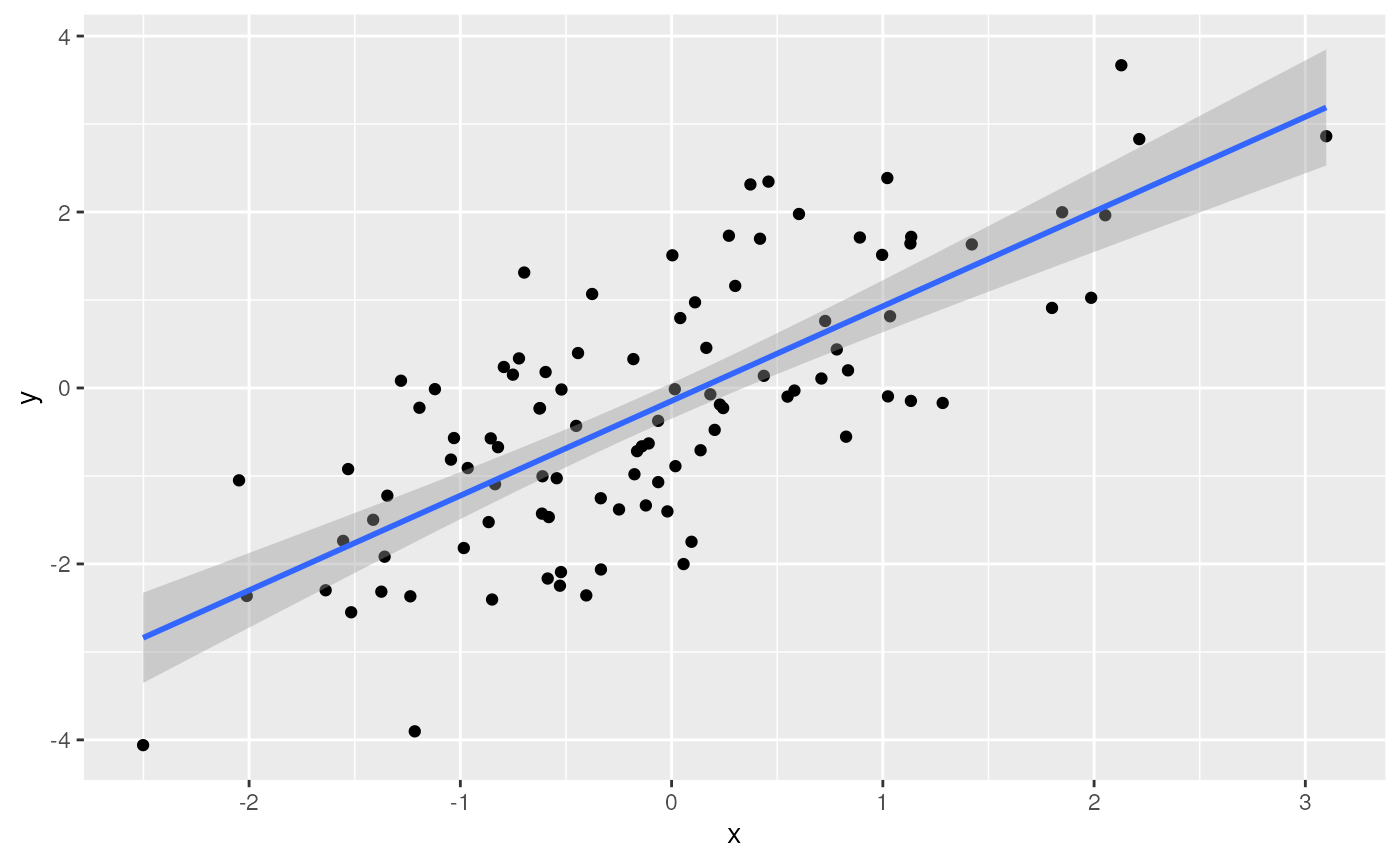
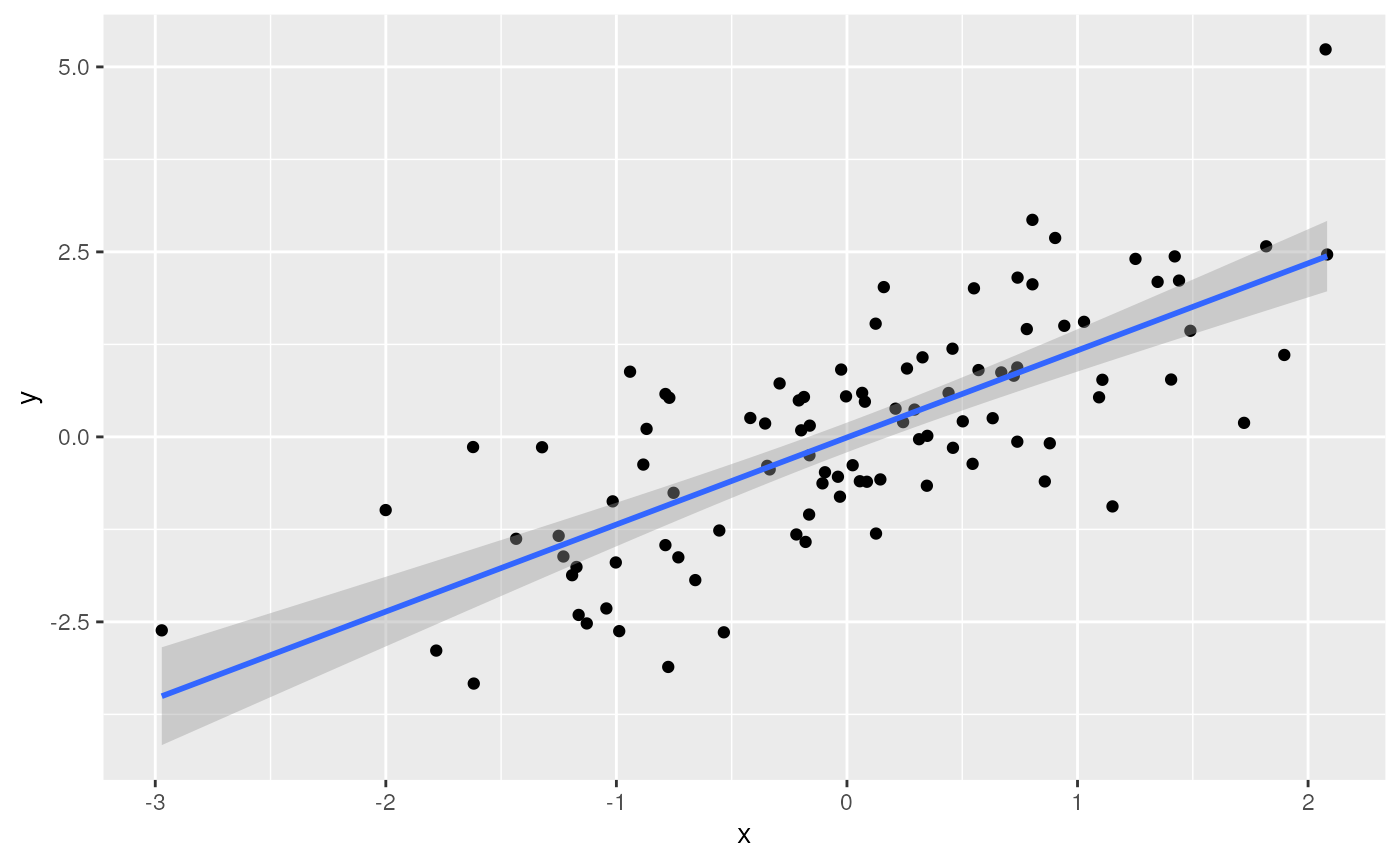
Deploying to gh-pages from @ mtmorgan/ArtNET2023@8ffec13955b0c99a74b7439393b391f1b6cc4643 🚀

diff --git a/articles/a_r.html b/articles/a_r.html
@@ -169,7 +169,7 @@ columns</li>
 <p>Functions</p>
 <div class="sourceCode" id="cb5"><pre class="downlit sourceCode r">
 <code class="sourceCode R"><span><span class="fu"><a href="https://rdrr.io/r/stats/Normal.html" class="external-link">rnorm</a></span><span class="op">(</span><span class="fl">5</span><span class="op">)</span>        <span class="co"># 5 random normal deviates</span></span>
-<span><span class="co">#&gt; [1]  0.7792484 -1.1957363  0.9642960 -0.8947239 -0.1341458</span></span>
+<span><span class="co">#&gt; [1] -0.24467398  0.03088212 -0.02108385 -0.30971223 -1.43242561</span></span>
 <span><span class="va">x</span> <span class="op">&lt;-</span> <span class="fu"><a href="https://rdrr.io/r/stats/Normal.html" class="external-link">rnorm</a></span><span class="op">(</span><span class="fl">100</span><span class="op">)</span> <span class="co"># 100 random normal deviates</span></span>
 <span><span class="fu"><a href="https://rdrr.io/r/graphics/hist.html" class="external-link">hist</a></span><span class="op">(</span><span class="va">x</span><span class="op">)</span>         <span class="co"># histogram, approximately normal</span></span></code></pre></div>
 <p><img src="a_r_files/figure-html/unnamed-chunk-6-1.png" width="700"></p>
@@ -189,7 +189,7 @@ explicit ‘for’ loop</p>
 <span><span class="co">#&gt; </span></span>
 <span><span class="co">#&gt; Coefficients:</span></span>
 <span><span class="co">#&gt; (Intercept)            x  </span></span>
-<span><span class="co">#&gt;     0.05219      1.11691</span></span>
+<span><span class="co">#&gt;    0.001288     1.166785</span></span>
 <span>            <span class="co"># regression of y on x</span></span>
 <span><span class="fu"><a href="https://rdrr.io/r/graphics/abline.html" class="external-link">abline</a></span><span class="op">(</span><span class="va">fit</span><span class="op">)</span> <span class="co"># plot points and fitted regression line</span></span></code></pre></div>
 <p><img src="a_r_files/figure-html/unnamed-chunk-7-1.png" width="700"></p>
@@ -199,8 +199,8 @@ explicit ‘for’ loop</p>
 <span><span class="co">#&gt; </span></span>
 <span><span class="co">#&gt; Response: y</span></span>
 <span><span class="co">#&gt;           Df Sum Sq Mean Sq F value    Pr(&gt;F)    </span></span>
-<span><span class="co">#&gt; x          1 133.11 133.106  115.62 &lt; 2.2e-16 ***</span></span>
-<span><span class="co">#&gt; Residuals 98 112.82   1.151                      </span></span>
+<span><span class="co">#&gt; x          1 146.80 146.797  147.38 &lt; 2.2e-16 ***</span></span>
+<span><span class="co">#&gt; Residuals 98  97.61   0.996                      </span></span>
 <span><span class="co">#&gt; ---</span></span>
 <span><span class="co">#&gt; Signif. codes:  0 '***' 0.001 '**' 0.01 '*' 0.05 '.' 0.1 ' ' 1</span></span></code></pre></div>
 <p>Write your own functions</p>
@@ -248,18 +248,18 @@ CRAN package, load the package</p>
 <span></span>
 <span><span class="va">tbl</span> <span class="co"># e.g., only displays the first 10 rows</span></span>
 <span><span class="co">#&gt; <span style="color: #949494;"># A tibble: 100 × 2</span></span></span>
-<span><span class="co">#&gt;          x      y</span></span>
-<span><span class="co">#&gt;      <span style="color: #949494; font-style: italic;">&lt;dbl&gt;</span>  <span style="color: #949494; font-style: italic;">&lt;dbl&gt;</span></span></span>
-<span><span class="co">#&gt; <span style="color: #BCBCBC;"> 1</span>  0.889   0.651</span></span>
-<span><span class="co">#&gt; <span style="color: #BCBCBC;"> 2</span> -<span style="color: #BB0000;">0.075</span><span style="color: #BB0000; text-decoration: underline;">3</span>  0.162</span></span>
-<span><span class="co">#&gt; <span style="color: #BCBCBC;"> 3</span>  1.50    0.272</span></span>
-<span><span class="co">#&gt; <span style="color: #BCBCBC;"> 4</span>  1.62    1.03 </span></span>
-<span><span class="co">#&gt; <span style="color: #BCBCBC;"> 5</span> -<span style="color: #BB0000;">0.529</span>  -<span style="color: #BB0000;">0.497</span></span></span>
-<span><span class="co">#&gt; <span style="color: #BCBCBC;"> 6</span> -<span style="color: #BB0000;">0.072</span><span style="color: #BB0000; text-decoration: underline;">2</span> -<span style="color: #BB0000;">0.849</span></span></span>
-<span><span class="co">#&gt; <span style="color: #BCBCBC;"> 7</span> -<span style="color: #BB0000;">1.52</span>   -<span style="color: #BB0000;">0.599</span></span></span>
-<span><span class="co">#&gt; <span style="color: #BCBCBC;"> 8</span>  0.332  -<span style="color: #BB0000;">0.438</span></span></span>
-<span><span class="co">#&gt; <span style="color: #BCBCBC;"> 9</span> -<span style="color: #BB0000;">1.97</span>   -<span style="color: #BB0000;">1.09</span> </span></span>
-<span><span class="co">#&gt; <span style="color: #BCBCBC;">10</span>  0.401   0.315</span></span>
+<span><span class="co">#&gt;         x      y</span></span>
+<span><span class="co">#&gt;     <span style="color: #949494; font-style: italic;">&lt;dbl&gt;</span>  <span style="color: #949494; font-style: italic;">&lt;dbl&gt;</span></span></span>
+<span><span class="co">#&gt; <span style="color: #BCBCBC;"> 1</span>  0.939  0.761</span></span>
+<span><span class="co">#&gt; <span style="color: #BCBCBC;"> 2</span> -<span style="color: #BB0000;">1.04</span>  -<span style="color: #BB0000;">0.178</span></span></span>
+<span><span class="co">#&gt; <span style="color: #BCBCBC;"> 3</span> -<span style="color: #BB0000;">1.09</span>   0.895</span></span>
+<span><span class="co">#&gt; <span style="color: #BCBCBC;"> 4</span> -<span style="color: #BB0000;">0.690</span> -<span style="color: #BB0000;">1.28</span> </span></span>
+<span><span class="co">#&gt; <span style="color: #BCBCBC;"> 5</span>  0.721 -<span style="color: #BB0000;">0.197</span></span></span>
+<span><span class="co">#&gt; <span style="color: #BCBCBC;"> 6</span> -<span style="color: #BB0000;">0.480</span> -<span style="color: #BB0000;">2.08</span> </span></span>
+<span><span class="co">#&gt; <span style="color: #BCBCBC;"> 7</span>  0.797  1.53 </span></span>
+<span><span class="co">#&gt; <span style="color: #BCBCBC;"> 8</span> -<span style="color: #BB0000;">0.322</span> -<span style="color: #BB0000;">0.389</span></span></span>
+<span><span class="co">#&gt; <span style="color: #BCBCBC;"> 9</span>  0.801 -<span style="color: #BB0000;">0.759</span></span></span>
+<span><span class="co">#&gt; <span style="color: #BCBCBC;">10</span> -<span style="color: #BB0000;">0.204</span> -<span style="color: #BB0000;">1.18</span> </span></span>
 <span><span class="co">#&gt; <span style="color: #949494;"># ℹ 90 more rows</span></span></span></code></pre></div>
 <p>The tidyverse makes use of ‘pipes’ <code>|&gt;</code> (the older
 syntax is <code>%&gt;%</code>). A pipe takes the left-hand side and pass
@@ -309,20 +309,20 @@ tibble.</li>
 <span>    <span class="fu"><a href="https://dplyr.tidyverse.org/reference/filter.html" class="external-link">filter</a></span><span class="op">(</span><span class="va">x</span> <span class="op">&gt;</span> <span class="fl">0</span>, <span class="va">y</span> <span class="op">&gt;</span> <span class="fl">0</span><span class="op">)</span> <span class="op">|&gt;</span></span>
 <span>    <span class="co">## add a column</span></span>
 <span>    <span class="fu"><a href="https://dplyr.tidyverse.org/reference/mutate.html" class="external-link">mutate</a></span><span class="op">(</span>distance_from_origin <span class="op">=</span> <span class="fu"><a href="https://rdrr.io/r/base/MathFun.html" class="external-link">sqrt</a></span><span class="op">(</span><span class="va">x</span><span class="op">^</span><span class="fl">2</span> <span class="op">+</span> <span class="va">y</span><span class="op">^</span><span class="fl">2</span><span class="op">)</span><span class="op">)</span></span>
-<span><span class="co">#&gt; <span style="color: #949494;"># A tibble: 44 × 3</span></span></span>
-<span><span class="co">#&gt;         x       y distance_from_origin</span></span>
-<span><span class="co">#&gt;     <span style="color: #949494; font-style: italic;">&lt;dbl&gt;</span>   <span style="color: #949494; font-style: italic;">&lt;dbl&gt;</span>                <span style="color: #949494; font-style: italic;">&lt;dbl&gt;</span></span></span>
-<span><span class="co">#&gt; <span style="color: #BCBCBC;"> 1</span> 0.889  0.651                  1.10 </span></span>
-<span><span class="co">#&gt; <span style="color: #BCBCBC;"> 2</span> 1.50   0.272                  1.52 </span></span>
-<span><span class="co">#&gt; <span style="color: #BCBCBC;"> 3</span> 1.62   1.03                   1.92 </span></span>
-<span><span class="co">#&gt; <span style="color: #BCBCBC;"> 4</span> 0.401  0.315                  0.510</span></span>
-<span><span class="co">#&gt; <span style="color: #BCBCBC;"> 5</span> 1.11   0.719                  1.32 </span></span>
-<span><span class="co">#&gt; <span style="color: #BCBCBC;"> 6</span> 0.054<span style="text-decoration: underline;">2</span> 0.101                  0.115</span></span>
-<span><span class="co">#&gt; <span style="color: #BCBCBC;"> 7</span> 0.402  0.150                  0.429</span></span>
-<span><span class="co">#&gt; <span style="color: #BCBCBC;"> 8</span> 0.614  0.560                  0.831</span></span>
-<span><span class="co">#&gt; <span style="color: #BCBCBC;"> 9</span> 0.246  1.31                   1.33 </span></span>
-<span><span class="co">#&gt; <span style="color: #BCBCBC;">10</span> 0.738  0.001<span style="text-decoration: underline;">36</span>                0.738</span></span>
-<span><span class="co">#&gt; <span style="color: #949494;"># ℹ 34 more rows</span></span></span></code></pre></div>
+<span><span class="co">#&gt; <span style="color: #949494;"># A tibble: 35 × 3</span></span></span>
+<span><span class="co">#&gt;        x     y distance_from_origin</span></span>
+<span><span class="co">#&gt;    <span style="color: #949494; font-style: italic;">&lt;dbl&gt;</span> <span style="color: #949494; font-style: italic;">&lt;dbl&gt;</span>                <span style="color: #949494; font-style: italic;">&lt;dbl&gt;</span></span></span>
+<span><span class="co">#&gt; <span style="color: #BCBCBC;"> 1</span> 0.939 0.761                1.21 </span></span>
+<span><span class="co">#&gt; <span style="color: #BCBCBC;"> 2</span> 0.797 1.53                 1.72 </span></span>
+<span><span class="co">#&gt; <span style="color: #BCBCBC;"> 3</span> 1.57  1.67                 2.29 </span></span>
+<span><span class="co">#&gt; <span style="color: #BCBCBC;"> 4</span> 0.746 0.264                0.791</span></span>
+<span><span class="co">#&gt; <span style="color: #BCBCBC;"> 5</span> 0.769 0.469                0.901</span></span>
+<span><span class="co">#&gt; <span style="color: #BCBCBC;"> 6</span> 0.164 1.30                 1.31 </span></span>
+<span><span class="co">#&gt; <span style="color: #BCBCBC;"> 7</span> 1.68  0.789                1.86 </span></span>
+<span><span class="co">#&gt; <span style="color: #BCBCBC;"> 8</span> 0.388 0.815                0.903</span></span>
+<span><span class="co">#&gt; <span style="color: #BCBCBC;"> 9</span> 0.266 1.27                 1.30 </span></span>
+<span><span class="co">#&gt; <span style="color: #BCBCBC;">10</span> 0.897 0.994                1.34 </span></span>
+<span><span class="co">#&gt; <span style="color: #949494;"># ℹ 25 more rows</span></span></span></code></pre></div>
 <p>A ‘classic’ built-in data set – Motor Trend ‘cars’ from 1974…
 ‘tidyverse’ eschews rownames, so make these a column. Use
 <code><a href="https://dplyr.tidyverse.org/reference/group_by.html" class="external-link">group_by()</a></code> to summarize by group (<code>cyl</code>).
@@ -391,8 +391,8 @@ points, or dragging to subset and zoom in)</p>
 <span>    <span class="fu"><a href="https://ggplot2.tidyverse.org/reference/geom_jitter.html" class="external-link">geom_jitter</a></span><span class="op">(</span>width <span class="op">=</span> <span class="fl">.25</span><span class="op">)</span> <span class="op">+</span></span>
 <span>    <span class="fu"><a href="https://ggplot2.tidyverse.org/reference/geom_boxplot.html" class="external-link">geom_boxplot</a></span><span class="op">(</span><span class="op">)</span></span>
 <span><span class="fu"><a href="https://rdrr.io/pkg/plotly/man/ggplotly.html" class="external-link">ggplotly</a></span><span class="op">(</span><span class="va">plt</span><span class="op">)</span></span></code></pre></div>
-<div class="plotly html-widget html-fill-item-overflow-hidden html-fill-item" id="htmlwidget-2898f552883a4b629c9b" style="width:700px;height:432.632880098888px;"></div>
-<script type="application/json" data-for="htmlwidget-2898f552883a4b629c9b">{"x":{"data":[{"x":[2.1956576404627413,1.9929327133577317,1.1514438561862335,1.8219834284391254,2.9138818189967424,2.206207231618464,2.9864502527052537,1.1731468822108582,0.84032799967098981,2.217991930898279,2.0204147193580866,2.8037744362372905,3.0633531112689525,3.0492010718444362,2.7737104370025918,2.9007849445333704,2.7504243809962645,1.1592051804764196,0.76005472103133798,1.1159701409051195,0.84394322731532156,3.2011064034886658,3.2128942363196984,3.1110571364406496,3.1182123750913888,0.78171508607920259,0.9589352619368583,1.0806569763226435,3.0430895240278915,1.9913993151858449,3.0965280308155343,1.0430394960567355],"y":[20.965565768722445,21.010963339097799,22.789397772755475,21.43058168986812,18.675006215125322,18.116619348581882,14.310995879042894,24.408481944985688,22.820941530540587,19.184151478186248,17.822997998353095,16.43397197170183,17.319669128265232,15.237512325644493,10.375736472271383,10.405228023231031,14.707303703278303,32.386314087100324,30.393548131026325,33.933059390056876,21.518943706024437,15.524511504285037,15.187964557297526,13.267972156163305,19.216416709329934,27.267468387726694,26.038153050653637,30.378151813764124,15.803299615420402,19.692310423552989,15.006791803725063,21.43605909684673],"text":["cyl: 6<br />mpg: 21.0<br />Mazda RX4","cyl: 6<br />mpg: 21.0<br />Mazda RX4 Wag","cyl: 4<br />mpg: 22.8<br />Datsun 710","cyl: 6<br />mpg: 21.4<br />Hornet 4 Drive","cyl: 8<br />mpg: 18.7<br />Hornet Sportabout","cyl: 6<br />mpg: 18.1<br />Valiant","cyl: 8<br />mpg: 14.3<br />Duster 360","cyl: 4<br />mpg: 24.4<br />Merc 240D","cyl: 4<br />mpg: 22.8<br />Merc 230","cyl: 6<br />mpg: 19.2<br />Merc 280","cyl: 6<br />mpg: 17.8<br />Merc 280C","cyl: 8<br />mpg: 16.4<br />Merc 450SE","cyl: 8<br />mpg: 17.3<br />Merc 450SL","cyl: 8<br />mpg: 15.2<br />Merc 450SLC","cyl: 8<br />mpg: 10.4<br />Cadillac Fleetwood","cyl: 8<br />mpg: 10.4<br />Lincoln Continental","cyl: 8<br />mpg: 14.7<br />Chrysler Imperial","cyl: 4<br />mpg: 32.4<br />Fiat 128","cyl: 4<br />mpg: 30.4<br />Honda Civic","cyl: 4<br />mpg: 33.9<br />Toyota Corolla","cyl: 4<br />mpg: 21.5<br />Toyota Corona","cyl: 8<br />mpg: 15.5<br />Dodge Challenger","cyl: 8<br />mpg: 15.2<br />AMC Javelin","cyl: 8<br />mpg: 13.3<br />Camaro Z28","cyl: 8<br />mpg: 19.2<br />Pontiac Firebird","cyl: 4<br />mpg: 27.3<br />Fiat X1-9","cyl: 4<br />mpg: 26.0<br />Porsche 914-2","cyl: 4<br />mpg: 30.4<br />Lotus Europa","cyl: 8<br />mpg: 15.8<br />Ford Pantera L","cyl: 6<br />mpg: 19.7<br />Ferrari Dino","cyl: 8<br />mpg: 15.0<br />Maserati Bora","cyl: 4<br />mpg: 21.4<br />Volvo 142E"],"type":"scatter","mode":"markers","marker":{"autocolorscale":false,"color":"rgba(0,0,0,1)","opacity":1,"size":5.6692913385826778,"symbol":"circle","line":{"width":1.8897637795275593,"color":"rgba(0,0,0,1)"}},"hoveron":"points","showlegend":false,"xaxis":"x","yaxis":"y","hoverinfo":"text","frame":null},{"x":[2,2,1,2,3,2,3,1,1,2,2,3,3,3,3,3,3,1,1,1,1,3,3,3,3,1,1,1,3,2,3,1],"y":[21,21,22.800000000000001,21.399999999999999,18.699999999999999,18.100000000000001,14.300000000000001,24.399999999999999,22.800000000000001,19.199999999999999,17.800000000000001,16.399999999999999,17.300000000000001,15.199999999999999,10.4,10.4,14.699999999999999,32.399999999999999,30.399999999999999,33.899999999999999,21.5,15.5,15.199999999999999,13.300000000000001,19.199999999999999,27.300000000000001,26,30.399999999999999,15.800000000000001,19.699999999999999,15,21.399999999999999],"hoverinfo":"y","type":"box","fillcolor":"rgba(255,255,255,1)","marker":{"opacity":null,"outliercolor":"rgba(0,0,0,1)","line":{"width":1.8897637795275593,"color":"rgba(0,0,0,1)"},"size":5.6692913385826778},"line":{"color":"rgba(51,51,51,1)","width":1.8897637795275593},"showlegend":false,"xaxis":"x","yaxis":"y","frame":null}],"layout":{"margin":{"t":27.824636418824401,"r":7.3059360730593621,"b":41.778974318367787,"l":37.260273972602747},"plot_bgcolor":"rgba(235,235,235,1)","paper_bgcolor":"rgba(255,255,255,1)","font":{"color":"rgba(0,0,0,1)","family":"","size":14.611872146118724},"xaxis":{"domain":[0,1],"automargin":true,"type":"linear","autorange":false,"range":[0.40000000000000002,3.6000000000000001],"tickmode":"array","ticktext":["4","6","8"],"tickvals":[1,2,3],"categoryorder":"array","categoryarray":["4","6","8"],"nticks":null,"ticks":"outside","tickcolor":"rgba(51,51,51,1)","ticklen":3.6529680365296811,"tickwidth":0.66417600664176002,"showticklabels":true,"tickfont":{"color":"rgba(77,77,77,1)","family":"","size":11.68949771689498},"tickangle":-0,"showline":false,"linecolor":null,"linewidth":0,"showgrid":true,"gridcolor":"rgba(255,255,255,1)","gridwidth":0.66417600664176002,"zeroline":false,"anchor":"y","title":{"text":"cyl","font":{"color":"rgba(0,0,0,1)","family":"","size":14.611872146118724}},"hoverformat":".2f"},"yaxis":{"domain":[0,1],"automargin":true,"type":"linear","autorange":false,"range":[9.1978703263821089,35.110925535946151],"tickmode":"array","ticktext":["10","15","20","25","30","35"],"tickvals":[10,15,20,25,30,35],"categoryorder":"array","categoryarray":["10","15","20","25","30","35"],"nticks":null,"ticks":"outside","tickcolor":"rgba(51,51,51,1)","ticklen":3.6529680365296811,"tickwidth":0.66417600664176002,"showticklabels":true,"tickfont":{"color":"rgba(77,77,77,1)","family":"","size":11.68949771689498},"tickangle":-0,"showline":false,"linecolor":null,"linewidth":0,"showgrid":true,"gridcolor":"rgba(255,255,255,1)","gridwidth":0.66417600664176002,"zeroline":false,"anchor":"x","title":{"text":"mpg","font":{"color":"rgba(0,0,0,1)","family":"","size":14.611872146118724}},"hoverformat":".2f"},"shapes":[{"type":"rect","fillcolor":null,"line":{"color":null,"width":0,"linetype":[]},"yref":"paper","xref":"paper","x0":0,"x1":1,"y0":0,"y1":1}],"showlegend":false,"legend":{"bgcolor":"rgba(255,255,255,1)","bordercolor":"transparent","borderwidth":1.8897637795275593,"font":{"color":"rgba(0,0,0,1)","family":"","size":11.68949771689498}},"hovermode":"closest","barmode":"relative"},"config":{"doubleClick":"reset","modeBarButtonsToAdd":["hoverclosest","hovercompare"],"showSendToCloud":false},"source":"A","attrs":{"7104091c482":{"x":{},"y":{},"text":{},"type":"scatter"},"71016dff523":{"x":{},"y":{},"text":{}}},"cur_data":"7104091c482","visdat":{"7104091c482":["function (y) ","x"],"71016dff523":["function (y) ","x"]},"highlight":{"on":"plotly_click","persistent":false,"dynamic":false,"selectize":false,"opacityDim":0.20000000000000001,"selected":{"opacity":1},"debounce":0},"shinyEvents":["plotly_hover","plotly_click","plotly_selected","plotly_relayout","plotly_brushed","plotly_brushing","plotly_clickannotation","plotly_doubleclick","plotly_deselect","plotly_afterplot","plotly_sunburstclick"],"base_url":"https://plot.ly"},"evals":[],"jsHooks":[]}</script>
+<div class="plotly html-widget html-fill-item-overflow-hidden html-fill-item" id="htmlwidget-35dadba49d92512a8153" style="width:700px;height:432.632880098888px;"></div>
+<script type="application/json" data-for="htmlwidget-35dadba49d92512a8153">{"x":{"data":[{"x":[2.138037059805356,2.0511229396797717,0.76048473443370312,1.9067124669672921,2.9393866645405069,1.7643262102501467,2.9583467253251001,1.1736917353700846,1.23622616159264,1.8727559162070975,1.922439930960536,3.2110200126189739,2.9359124900074676,3.1851566577097401,3.2386665748199448,3.1411115328082815,3.2171116487588733,1.1635948737384751,0.96984548296313733,1.1534362417878583,0.97617716633249074,3.00233421579469,2.8491531212348491,3.1327720943372697,3.2396950273541734,1.0949499655980617,1.1773146712221205,0.93199932889547199,2.9618355331476778,1.7803342157276347,3.0893412146251649,0.76072247582487762],"y":[21.024647741224616,21.021948779597878,22.763922350332141,21.398783827703443,18.726425807941705,18.10155126590282,14.303612651806326,24.439277203623206,22.77487199559808,19.223508803602307,17.774844039846212,16.390003186762332,17.310036185514182,15.184881491307168,10.416743359100074,10.361961787100881,14.663864192813634,32.38514803543687,30.387494206596163,33.884331886265429,21.536675003003328,15.483248222712428,15.208339595589786,13.292419253140688,19.186580522060392,27.326191682424398,26.008318181578069,30.36593226548284,15.825641874801368,19.701992471497505,15.018253629207612,21.387018956821411],"text":["cyl: 6<br />mpg: 21.0<br />Mazda RX4","cyl: 6<br />mpg: 21.0<br />Mazda RX4 Wag","cyl: 4<br />mpg: 22.8<br />Datsun 710","cyl: 6<br />mpg: 21.4<br />Hornet 4 Drive","cyl: 8<br />mpg: 18.7<br />Hornet Sportabout","cyl: 6<br />mpg: 18.1<br />Valiant","cyl: 8<br />mpg: 14.3<br />Duster 360","cyl: 4<br />mpg: 24.4<br />Merc 240D","cyl: 4<br />mpg: 22.8<br />Merc 230","cyl: 6<br />mpg: 19.2<br />Merc 280","cyl: 6<br />mpg: 17.8<br />Merc 280C","cyl: 8<br />mpg: 16.4<br />Merc 450SE","cyl: 8<br />mpg: 17.3<br />Merc 450SL","cyl: 8<br />mpg: 15.2<br />Merc 450SLC","cyl: 8<br />mpg: 10.4<br />Cadillac Fleetwood","cyl: 8<br />mpg: 10.4<br />Lincoln Continental","cyl: 8<br />mpg: 14.7<br />Chrysler Imperial","cyl: 4<br />mpg: 32.4<br />Fiat 128","cyl: 4<br />mpg: 30.4<br />Honda Civic","cyl: 4<br />mpg: 33.9<br />Toyota Corolla","cyl: 4<br />mpg: 21.5<br />Toyota Corona","cyl: 8<br />mpg: 15.5<br />Dodge Challenger","cyl: 8<br />mpg: 15.2<br />AMC Javelin","cyl: 8<br />mpg: 13.3<br />Camaro Z28","cyl: 8<br />mpg: 19.2<br />Pontiac Firebird","cyl: 4<br />mpg: 27.3<br />Fiat X1-9","cyl: 4<br />mpg: 26.0<br />Porsche 914-2","cyl: 4<br />mpg: 30.4<br />Lotus Europa","cyl: 8<br />mpg: 15.8<br />Ford Pantera L","cyl: 6<br />mpg: 19.7<br />Ferrari Dino","cyl: 8<br />mpg: 15.0<br />Maserati Bora","cyl: 4<br />mpg: 21.4<br />Volvo 142E"],"type":"scatter","mode":"markers","marker":{"autocolorscale":false,"color":"rgba(0,0,0,1)","opacity":1,"size":5.6692913385826778,"symbol":"circle","line":{"width":1.8897637795275593,"color":"rgba(0,0,0,1)"}},"hoveron":"points","showlegend":false,"xaxis":"x","yaxis":"y","hoverinfo":"text","frame":null},{"x":[2,2,1,2,3,2,3,1,1,2,2,3,3,3,3,3,3,1,1,1,1,3,3,3,3,1,1,1,3,2,3,1],"y":[21,21,22.800000000000001,21.399999999999999,18.699999999999999,18.100000000000001,14.300000000000001,24.399999999999999,22.800000000000001,19.199999999999999,17.800000000000001,16.399999999999999,17.300000000000001,15.199999999999999,10.4,10.4,14.699999999999999,32.399999999999999,30.399999999999999,33.899999999999999,21.5,15.5,15.199999999999999,13.300000000000001,19.199999999999999,27.300000000000001,26,30.399999999999999,15.800000000000001,19.699999999999999,15,21.399999999999999],"hoverinfo":"y","type":"box","fillcolor":"rgba(255,255,255,1)","marker":{"opacity":null,"outliercolor":"rgba(0,0,0,1)","line":{"width":1.8897637795275593,"color":"rgba(0,0,0,1)"},"size":5.6692913385826778},"line":{"color":"rgba(51,51,51,1)","width":1.8897637795275593},"showlegend":false,"xaxis":"x","yaxis":"y","frame":null}],"layout":{"margin":{"t":27.824636418824401,"r":7.3059360730593621,"b":41.778974318367787,"l":37.260273972602747},"plot_bgcolor":"rgba(235,235,235,1)","paper_bgcolor":"rgba(255,255,255,1)","font":{"color":"rgba(0,0,0,1)","family":"","size":14.611872146118724},"xaxis":{"domain":[0,1],"automargin":true,"type":"linear","autorange":false,"range":[0.40000000000000002,3.6000000000000001],"tickmode":"array","ticktext":["4","6","8"],"tickvals":[1,2,3],"categoryorder":"array","categoryarray":["4","6","8"],"nticks":null,"ticks":"outside","tickcolor":"rgba(51,51,51,1)","ticklen":3.6529680365296811,"tickwidth":0.66417600664176002,"showticklabels":true,"tickfont":{"color":"rgba(77,77,77,1)","family":"","size":11.68949771689498},"tickangle":-0,"showline":false,"linecolor":null,"linewidth":0,"showgrid":true,"gridcolor":"rgba(255,255,255,1)","gridwidth":0.66417600664176002,"zeroline":false,"anchor":"y","title":{"text":"cyl","font":{"color":"rgba(0,0,0,1)","family":"","size":14.611872146118724}},"hoverformat":".2f"},"yaxis":{"domain":[0,1],"automargin":true,"type":"linear","autorange":false,"range":[9.1850598764559255,35.076901910644956],"tickmode":"array","ticktext":["10","15","20","25","30","35"],"tickvals":[10,15,20,25,30,35],"categoryorder":"array","categoryarray":["10","15","20","25","30","35"],"nticks":null,"ticks":"outside","tickcolor":"rgba(51,51,51,1)","ticklen":3.6529680365296811,"tickwidth":0.66417600664176002,"showticklabels":true,"tickfont":{"color":"rgba(77,77,77,1)","family":"","size":11.68949771689498},"tickangle":-0,"showline":false,"linecolor":null,"linewidth":0,"showgrid":true,"gridcolor":"rgba(255,255,255,1)","gridwidth":0.66417600664176002,"zeroline":false,"anchor":"x","title":{"text":"mpg","font":{"color":"rgba(0,0,0,1)","family":"","size":14.611872146118724}},"hoverformat":".2f"},"shapes":[{"type":"rect","fillcolor":null,"line":{"color":null,"width":0,"linetype":[]},"yref":"paper","xref":"paper","x0":0,"x1":1,"y0":0,"y1":1}],"showlegend":false,"legend":{"bgcolor":"rgba(255,255,255,1)","bordercolor":"transparent","borderwidth":1.8897637795275593,"font":{"color":"rgba(0,0,0,1)","family":"","size":11.68949771689498}},"hovermode":"closest","barmode":"relative"},"config":{"doubleClick":"reset","modeBarButtonsToAdd":["hoverclosest","hovercompare"],"showSendToCloud":false},"source":"A","attrs":{"6803c44be89":{"x":{},"y":{},"text":{},"type":"scatter"},"680676a4352":{"x":{},"y":{},"text":{}}},"cur_data":"6803c44be89","visdat":{"6803c44be89":["function (y) ","x"],"680676a4352":["function (y) ","x"]},"highlight":{"on":"plotly_click","persistent":false,"dynamic":false,"selectize":false,"opacityDim":0.20000000000000001,"selected":{"opacity":1},"debounce":0},"shinyEvents":["plotly_hover","plotly_click","plotly_selected","plotly_relayout","plotly_brushed","plotly_brushing","plotly_clickannotation","plotly_doubleclick","plotly_deselect","plotly_afterplot","plotly_sunburstclick"],"base_url":"https://plot.ly"},"evals":[],"jsHooks":[]}</script>
 </div>
 <div class="section level3">
 <h3 id="where-do-packages-come-from">Where do Packages Come From?<a class="anchor" aria-label="anchor" href="#where-do-packages-come-from"></a>
@@ -480,8 +480,8 @@ for details.</p>
 <p>Columns in the datasset are described as:</p>
 <ul>
 <li>trt: 1=standard, 2=test</li>
-<li>celltype: 1=squamous, 2=smallcell, 3=adeno, 4=large</li>
-<li>time: survival time</li>
+<li>celltype: squamous, smallcell, adeno, large</li>
+<li>time: survival time (months?)</li>
 <li>status: censoring status</li>
 <li>karno: Karnofsky performance score (100=good)</li>
 <li>diagtime: months from diagnosis to randomisation</li>
@@ -492,7 +492,7 @@ for details.</p>
 e.g.,</p>
 <div class="sourceCode" id="cb22"><pre class="downlit sourceCode r">
 <code class="sourceCode R"><span><span class="va">veteran</span> <span class="op">|&gt;</span></span>
-<span>    <span class="fu"><a href="https://dplyr.tidyverse.org/reference/count.html" class="external-link">count</a></span><span class="op">(</span><span class="va">trt</span>, <span class="va">celltype</span><span class="op">)</span> <span class="op">|&gt;</span></span>
+<span>    <span class="fu"><a href="https://dplyr.tidyverse.org/reference/count.html" class="external-link">count</a></span><span class="op">(</span><span class="va">celltype</span>, <span class="va">trt</span><span class="op">)</span> <span class="op">|&gt;</span></span>
 <span>    <span class="fu">tidyr</span><span class="fu">::</span><span class="fu"><a href="https://tidyr.tidyverse.org/reference/pivot_wider.html" class="external-link">pivot_wider</a></span><span class="op">(</span>names_from <span class="op">=</span> <span class="va">trt</span>, values_from <span class="op">=</span> <span class="va">n</span><span class="op">)</span></span>
 <span><span class="co">#&gt; <span style="color: #949494;"># A tibble: 4 × 3</span></span></span>
 <span><span class="co">#&gt;   celltype    `1`   `2`</span></span>
@@ -501,19 +501,44 @@ e.g.,</p>
 <span><span class="co">#&gt; <span style="color: #BCBCBC;">2</span> large        15    12</span></span>
 <span><span class="co">#&gt; <span style="color: #BCBCBC;">3</span> smallcell    30    18</span></span>
 <span><span class="co">#&gt; <span style="color: #BCBCBC;">4</span> squamous     15    20</span></span></code></pre></div>
+<p>For continuous variables like <code>age</code>, it may be useful to
+stratify the data, e.g., separating individuals as less than 60
+(<code>LT60</code>), or greater than or equal to 60 (<code>GE60</code>).
+For <code>trt</code>, the encoding is a <code>double</code>, but it
+makes more sense for this to be a categorical variable</p>
+<div class="sourceCode" id="cb23"><pre class="downlit sourceCode r">
+<code class="sourceCode R"><span><span class="va">veteran</span> <span class="op">&lt;-</span></span>
+<span>    <span class="va">veteran</span> <span class="op">|&gt;</span></span>
+<span>    <span class="fu"><a href="https://dplyr.tidyverse.org/reference/mutate.html" class="external-link">mutate</a></span><span class="op">(</span></span>
+<span>        age_group <span class="op">=</span> <span class="fu"><a href="https://rdrr.io/r/base/factor.html" class="external-link">factor</a></span><span class="op">(</span><span class="fu"><a href="https://rdrr.io/r/base/ifelse.html" class="external-link">ifelse</a></span><span class="op">(</span><span class="op">(</span><span class="va">age</span> <span class="op">&lt;</span> <span class="fl">60</span><span class="op">)</span>, <span class="st">"LT60"</span>, <span class="st">"GE60"</span><span class="op">)</span><span class="op">)</span>,</span>
+<span>        trt <span class="op">=</span> <span class="fu"><a href="https://rdrr.io/r/base/factor.html" class="external-link">factor</a></span><span class="op">(</span><span class="va">trt</span>, labels <span class="op">=</span> <span class="fu"><a href="https://rdrr.io/r/base/c.html" class="external-link">c</a></span><span class="op">(</span><span class="st">"control"</span>, <span class="st">"treatment"</span><span class="op">)</span><span class="op">)</span></span>
+<span>    <span class="op">)</span></span></code></pre></div>
+<p>The <code>celltype</code> and <code>trt</code> summary table is more
+informative</p>
+<div class="sourceCode" id="cb24"><pre class="downlit sourceCode r">
+<code class="sourceCode R"><span><span class="va">veteran</span> <span class="op">|&gt;</span></span>
+<span>    <span class="fu"><a href="https://dplyr.tidyverse.org/reference/count.html" class="external-link">count</a></span><span class="op">(</span><span class="va">celltype</span>, <span class="va">trt</span><span class="op">)</span> <span class="op">|&gt;</span></span>
+<span>    <span class="fu">tidyr</span><span class="fu">::</span><span class="fu"><a href="https://tidyr.tidyverse.org/reference/pivot_wider.html" class="external-link">pivot_wider</a></span><span class="op">(</span>names_from <span class="op">=</span> <span class="va">trt</span>, values_from <span class="op">=</span> <span class="va">n</span><span class="op">)</span></span>
+<span><span class="co">#&gt; <span style="color: #949494;"># A tibble: 4 × 3</span></span></span>
+<span><span class="co">#&gt;   celltype  control treatment</span></span>
+<span><span class="co">#&gt;   <span style="color: #949494; font-style: italic;">&lt;chr&gt;</span>       <span style="color: #949494; font-style: italic;">&lt;int&gt;</span>     <span style="color: #949494; font-style: italic;">&lt;int&gt;</span></span></span>
+<span><span class="co">#&gt; <span style="color: #BCBCBC;">1</span> adeno           9        18</span></span>
+<span><span class="co">#&gt; <span style="color: #BCBCBC;">2</span> large          15        12</span></span>
+<span><span class="co">#&gt; <span style="color: #BCBCBC;">3</span> smallcell      30        18</span></span>
+<span><span class="co">#&gt; <span style="color: #BCBCBC;">4</span> squamous       15        20</span></span></code></pre></div>
 </div>
 <div class="section level3">
 <h3 id="kaplan-meier-curve-for-the-entire-data">Kaplan-Meier curve for the entire data<a class="anchor" aria-label="anchor" href="#kaplan-meier-curve-for-the-entire-data"></a>
 </h3>
 <p>Fit a standard survival model to the entire dataset</p>
-<div class="sourceCode" id="cb23"><pre class="downlit sourceCode r">
+<div class="sourceCode" id="cb25"><pre class="downlit sourceCode r">
 <code class="sourceCode R"><span><span class="va">km</span> <span class="op">&lt;-</span> <span class="fu"><a href="https://rdrr.io/pkg/survival/man/survfit.html" class="external-link">survfit</a></span><span class="op">(</span><span class="fu"><a href="https://rdrr.io/pkg/survival/man/Surv.html" class="external-link">Surv</a></span><span class="op">(</span><span class="va">time</span>, <span class="va">status</span><span class="op">)</span> <span class="op">~</span> <span class="fl">1</span>, <span class="va">veteran</span><span class="op">)</span></span></code></pre></div>
 <p>It is useful to know the ‘class’ of <code>km</code></p>
-<div class="sourceCode" id="cb24"><pre class="downlit sourceCode r">
+<div class="sourceCode" id="cb26"><pre class="downlit sourceCode r">
 <code class="sourceCode R"><span><span class="fu"><a href="https://rdrr.io/r/base/class.html" class="external-link">class</a></span><span class="op">(</span><span class="va">km</span><span class="op">)</span></span>
 <span><span class="co">#&gt; [1] "survfit"</span></span></code></pre></div>
 <p>And to get a summary of the data after different lengths of time…</p>
-<div class="sourceCode" id="cb25"><pre class="downlit sourceCode r">
+<div class="sourceCode" id="cb27"><pre class="downlit sourceCode r">
 <code class="sourceCode R"><span><span class="fu"><a href="https://rdrr.io/r/base/summary.html" class="external-link">summary</a></span><span class="op">(</span><span class="va">km</span>, times <span class="op">=</span> <span class="fu"><a href="https://rdrr.io/r/base/c.html" class="external-link">c</a></span><span class="op">(</span><span class="fl">1</span>, <span class="fl">30</span>, <span class="fl">60</span>, <span class="fl">90</span>, <span class="fl">180</span>, <span class="fl">360</span>, <span class="fl">720</span><span class="op">)</span><span class="op">)</span></span>
 <span><span class="co">#&gt; Call: survfit(formula = Surv(time, status) ~ 1, data = veteran)</span></span>
 <span><span class="co">#&gt; </span></span>
@@ -528,32 +553,22 @@ e.g.,</p>
 <p>… but nothing communicates like a figure (for help with the
 <code>autoplot</code> function applied to <code>survfit</code> object,
 see <code><a href="https://rdrr.io/pkg/ggfortify/man/autoplot.survfit.html" class="external-link">?autoplot.survfit</a></code>).</p>
-<div class="sourceCode" id="cb26"><pre class="downlit sourceCode r">
+<div class="sourceCode" id="cb28"><pre class="downlit sourceCode r">
 <code class="sourceCode R"><span><span class="fu"><a href="https://ggplot2.tidyverse.org/reference/autoplot.html" class="external-link">autoplot</a></span><span class="op">(</span><span class="va">km</span><span class="op">)</span></span></code></pre></div>
-<p><img src="a_r_files/figure-html/unnamed-chunk-25-1.png" width="700"></p>
+<p><img src="a_r_files/figure-html/unnamed-chunk-27-1.png" width="700"></p>
 </div>
 <div class="section level3">
 <h3 id="kaplan-meier-curve-stratified-by-treatment-or-age-group">Kaplan-Meier curve stratified by treatment or age group<a class="anchor" aria-label="anchor" href="#kaplan-meier-curve-stratified-by-treatment-or-age-group"></a>
 </h3>
 <p>It is easy to fit Kaplan-Meier curves to groups, e.g,. treatment</p>
-<div class="sourceCode" id="cb27"><pre class="downlit sourceCode r">
+<div class="sourceCode" id="cb29"><pre class="downlit sourceCode r">
 <code class="sourceCode R"><span><span class="va">km_trt</span> <span class="op">&lt;-</span> <span class="fu"><a href="https://rdrr.io/pkg/survival/man/survfit.html" class="external-link">survfit</a></span><span class="op">(</span><span class="fu"><a href="https://rdrr.io/pkg/survival/man/Surv.html" class="external-link">Surv</a></span><span class="op">(</span><span class="va">time</span>, <span class="va">status</span><span class="op">)</span> <span class="op">~</span> <span class="va">trt</span>, data<span class="op">=</span><span class="va">veteran</span><span class="op">)</span></span>
 <span><span class="fu"><a href="https://ggplot2.tidyverse.org/reference/autoplot.html" class="external-link">autoplot</a></span><span class="op">(</span><span class="va">km_trt</span><span class="op">)</span></span></code></pre></div>
-<p><img src="a_r_files/figure-html/unnamed-chunk-26-1.png" width="700"></p>
-<p>For continuous variables like <code>age</code>, it may be useful to
-stratify the data, e.g., separating individuals as less than 60
-(<code>LT60</code>), or greater than or equal to 60
-(<code>GE60</code>).</p>
-<div class="sourceCode" id="cb28"><pre class="downlit sourceCode r">
-<code class="sourceCode R"><span><span class="va">veteran</span> <span class="op">&lt;-</span></span>
-<span>    <span class="va">veteran</span> <span class="op">|&gt;</span></span>
-<span>    <span class="fu"><a href="https://dplyr.tidyverse.org/reference/mutate.html" class="external-link">mutate</a></span><span class="op">(</span></span>
-<span>        age_group <span class="op">=</span> <span class="fu"><a href="https://rdrr.io/r/base/factor.html" class="external-link">factor</a></span><span class="op">(</span><span class="fu"><a href="https://rdrr.io/r/base/ifelse.html" class="external-link">ifelse</a></span><span class="op">(</span><span class="op">(</span><span class="va">age</span> <span class="op">&lt;</span> <span class="fl">60</span><span class="op">)</span>, <span class="st">"LT60"</span>, <span class="st">"GE60"</span><span class="op">)</span><span class="op">)</span>,</span>
-<span>    <span class="op">)</span></span></code></pre></div>
-<div class="sourceCode" id="cb29"><pre class="downlit sourceCode r">
+<p><img src="a_r_files/figure-html/unnamed-chunk-28-1.png" width="700"></p>
+<div class="sourceCode" id="cb30"><pre class="downlit sourceCode r">
 <code class="sourceCode R"><span><span class="va">km_age</span> <span class="op">&lt;-</span> <span class="fu"><a href="https://rdrr.io/pkg/survival/man/survfit.html" class="external-link">survfit</a></span><span class="op">(</span><span class="fu"><a href="https://rdrr.io/pkg/survival/man/Surv.html" class="external-link">Surv</a></span><span class="op">(</span><span class="va">time</span>, <span class="va">status</span><span class="op">)</span> <span class="op">~</span> <span class="va">age_group</span>, <span class="va">veteran</span><span class="op">)</span></span>
 <span><span class="fu"><a href="https://ggplot2.tidyverse.org/reference/autoplot.html" class="external-link">autoplot</a></span><span class="op">(</span><span class="va">km_age</span><span class="op">)</span></span></code></pre></div>
-<p><img src="a_r_files/figure-html/unnamed-chunk-28-1.png" width="700"></p>
+<p><img src="a_r_files/figure-html/unnamed-chunk-29-1.png" width="700"></p>
 </div>
 <div class="section level3">
 <h3 id="cox-proportional-hazards-model">Cox proportional hazards model<a class="anchor" aria-label="anchor" href="#cox-proportional-hazards-model"></a>
@@ -564,7 +579,7 @@ hazards model as a basis for statical understand. In the summary table,
 <code>trttest</code> indicates that the summary reports the effect of
 <code>test</code> compared to <code>standard</code> as the base
 line.</p>
-<div class="sourceCode" id="cb30"><pre class="downlit sourceCode r">
+<div class="sourceCode" id="cb31"><pre class="downlit sourceCode r">
 <code class="sourceCode R"><span><span class="va">cox</span> <span class="op">&lt;-</span> <span class="fu"><a href="https://rdrr.io/pkg/survival/man/coxph.html" class="external-link">coxph</a></span><span class="op">(</span></span>
 <span>    <span class="fu"><a href="https://rdrr.io/pkg/survival/man/Surv.html" class="external-link">Surv</a></span><span class="op">(</span><span class="va">time</span>, <span class="va">status</span><span class="op">)</span> <span class="op">~</span> <span class="va">trt</span>,</span>
 <span>    data <span class="op">=</span> <span class="va">veteran</span></span>
@@ -575,11 +590,11 @@ line.</p>
 <span><span class="co">#&gt; </span></span>
 <span><span class="co">#&gt;   n= 137, number of events= 128 </span></span>
 <span><span class="co">#&gt; </span></span>
-<span><span class="co">#&gt;        coef exp(coef) se(coef)     z Pr(&gt;|z|)</span></span>
-<span><span class="co">#&gt; trt 0.01774   1.01790  0.18066 0.098    0.922</span></span>
+<span><span class="co">#&gt;                 coef exp(coef) se(coef)     z Pr(&gt;|z|)</span></span>
+<span><span class="co">#&gt; trttreatment 0.01774   1.01790  0.18066 0.098    0.922</span></span>
 <span><span class="co">#&gt; </span></span>
-<span><span class="co">#&gt;     exp(coef) exp(-coef) lower .95 upper .95</span></span>
-<span><span class="co">#&gt; trt     1.018     0.9824    0.7144      1.45</span></span>
+<span><span class="co">#&gt;              exp(coef) exp(-coef) lower .95 upper .95</span></span>
+<span><span class="co">#&gt; trttreatment     1.018     0.9824    0.7144      1.45</span></span>
 <span><span class="co">#&gt; </span></span>
 <span><span class="co">#&gt; Concordance= 0.525  (se = 0.026 )</span></span>
 <span><span class="co">#&gt; Likelihood ratio test= 0.01  on 1 df,   p=0.9</span></span>
@@ -589,7 +604,7 @@ line.</p>
 <code>age</code> is a statistically meaningful contribution to survival,
 although interpretation even of this ‘simple’ model should probably be
 discussed with a statistician.</p>
-<div class="sourceCode" id="cb31"><pre class="downlit sourceCode r">
+<div class="sourceCode" id="cb32"><pre class="downlit sourceCode r">
 <code class="sourceCode R"><span><span class="va">cox</span> <span class="op">&lt;-</span> <span class="fu"><a href="https://rdrr.io/pkg/survival/man/coxph.html" class="external-link">coxph</a></span><span class="op">(</span></span>
 <span>    <span class="fu"><a href="https://rdrr.io/pkg/survival/man/Surv.html" class="external-link">Surv</a></span><span class="op">(</span><span class="va">time</span>, <span class="va">status</span><span class="op">)</span> <span class="op">~</span> <span class="va">age</span> <span class="op">+</span> <span class="va">trt</span>,</span>
 <span>    data <span class="op">=</span> <span class="va">veteran</span></span>
@@ -600,13 +615,13 @@ discussed with a statistician.</p>
 <span><span class="co">#&gt; </span></span>
 <span><span class="co">#&gt;   n= 137, number of events= 128 </span></span>
 <span><span class="co">#&gt; </span></span>
-<span><span class="co">#&gt;          coef exp(coef)  se(coef)      z Pr(&gt;|z|)</span></span>
-<span><span class="co">#&gt; age  0.007527  1.007556  0.009661  0.779    0.436</span></span>
-<span><span class="co">#&gt; trt -0.003654  0.996352  0.182514 -0.020    0.984</span></span>
+<span><span class="co">#&gt;                   coef exp(coef)  se(coef)      z Pr(&gt;|z|)</span></span>
+<span><span class="co">#&gt; age           0.007527  1.007556  0.009661  0.779    0.436</span></span>
+<span><span class="co">#&gt; trttreatment -0.003654  0.996352  0.182514 -0.020    0.984</span></span>
 <span><span class="co">#&gt; </span></span>
-<span><span class="co">#&gt;     exp(coef) exp(-coef) lower .95 upper .95</span></span>
-<span><span class="co">#&gt; age    1.0076     0.9925    0.9887     1.027</span></span>
-<span><span class="co">#&gt; trt    0.9964     1.0037    0.6967     1.425</span></span>
+<span><span class="co">#&gt;              exp(coef) exp(-coef) lower .95 upper .95</span></span>
+<span><span class="co">#&gt; age             1.0076     0.9925    0.9887     1.027</span></span>
+<span><span class="co">#&gt; trttreatment    0.9964     1.0037    0.6967     1.425</span></span>
 <span><span class="co">#&gt; </span></span>
 <span><span class="co">#&gt; Concordance= 0.514  (se = 0.029 )</span></span>
 <span><span class="co">#&gt; Likelihood ratio test= 0.63  on 2 df,   p=0.7</span></span>
@@ -622,7 +637,7 @@ discussed with a statistician.</p>
 </h3>
 <p>This document was produced with the following <em>R</em>
 software:</p>
-<div class="sourceCode" id="cb32"><pre class="downlit sourceCode r">
+<div class="sourceCode" id="cb33"><pre class="downlit sourceCode r">
 <code class="sourceCode R"><span><span class="fu"><a href="https://rdrr.io/r/utils/sessionInfo.html" class="external-link">sessionInfo</a></span><span class="op">(</span><span class="op">)</span></span>
 <span><span class="co">#&gt; R version 4.3.0 (2023-04-21)</span></span>
 <span><span class="co">#&gt; Platform: x86_64-pc-linux-gnu (64-bit)</span></span>
